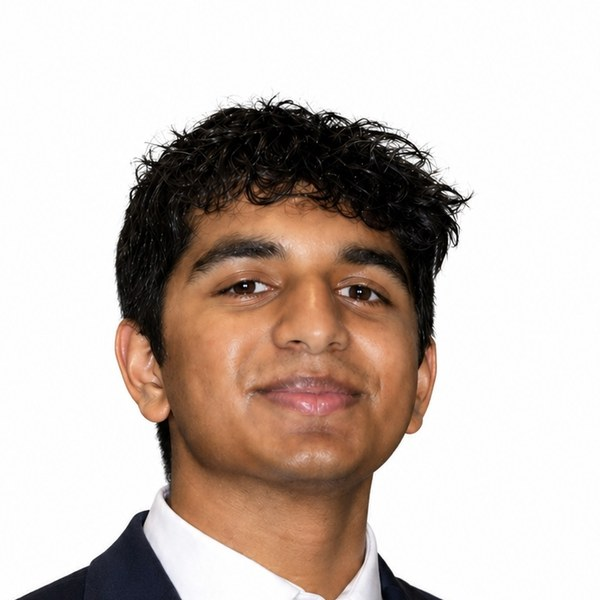
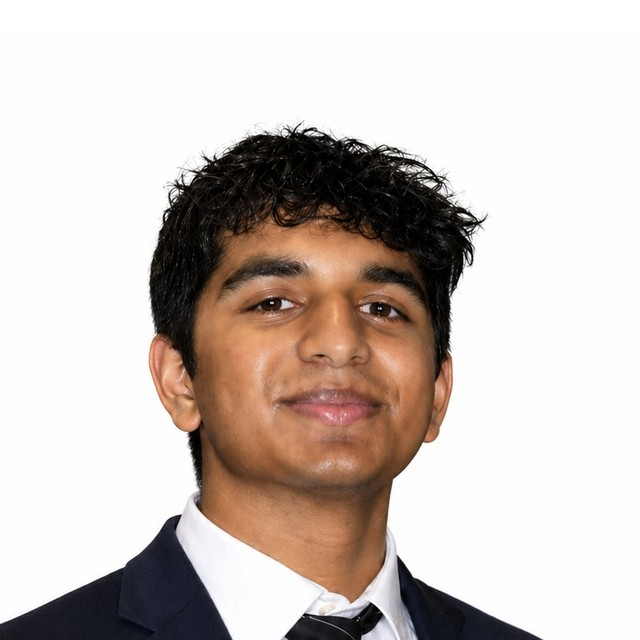
Match LinkedIn headshot framing; center hero bio and links
Claude-Session: https://claude.ai/code/session_01NWRQE2tTW1LCR7rJWSAP9g

Changed region(s): [[0.18, 0.15, 0.87, 1.0], [0.0, 0.87, 0.21, 1.0], [0.18, 0.96, 0.24, 0.99]]

diff --git a/assets/style.css b/assets/style.css
@@ -41,12 +41,12 @@ h1, h2, h3, h4, p, ul { margin: 0; }
 .hero-credentials b { color: var(--h-ink); font-weight: 600; }
 .hero-affil { flex: none; }
 .hero-affil img { height: 156px; width: auto; mix-blend-mode: multiply; }
-.hero-oneliner { max-width: 940px; font-size: clamp(1.15rem, 2vw, 1.4rem); font-weight: 500; line-height: 1.45; }
-.hero-links { display: flex; flex-wrap: wrap; gap: 8px 10px; font-family: var(--body); }
+.hero-oneliner { text-align: center; font-size: clamp(1.15rem, 2vw, 1.4rem); font-weight: 500; line-height: 1.45; }
+.hero-links { display: flex; justify-content: center; flex-wrap: wrap; gap: 8px 10px; font-family: var(--body); }
 .hero-links a, .hero-links span { font-size: .93rem; font-weight: 500; color: var(--h-ink); background: #fff; border: 1px solid var(--rule); border-radius: 999px; padding: 6px 16px; }
 .hero-links a:hover { border-color: var(--navy); text-decoration: none; }
 .hero-links span { user-select: all; }
-.hero-count { font-family: var(--body); font-size: .9rem; color: var(--h-ink-2); }
+.hero-count { text-align: center; font-family: var(--body); font-size: .9rem; color: var(--h-ink-2); }
 
 /* Sections */
 .home-main { max-width: 1180px; margin: auto; padding: 0 40px; }
